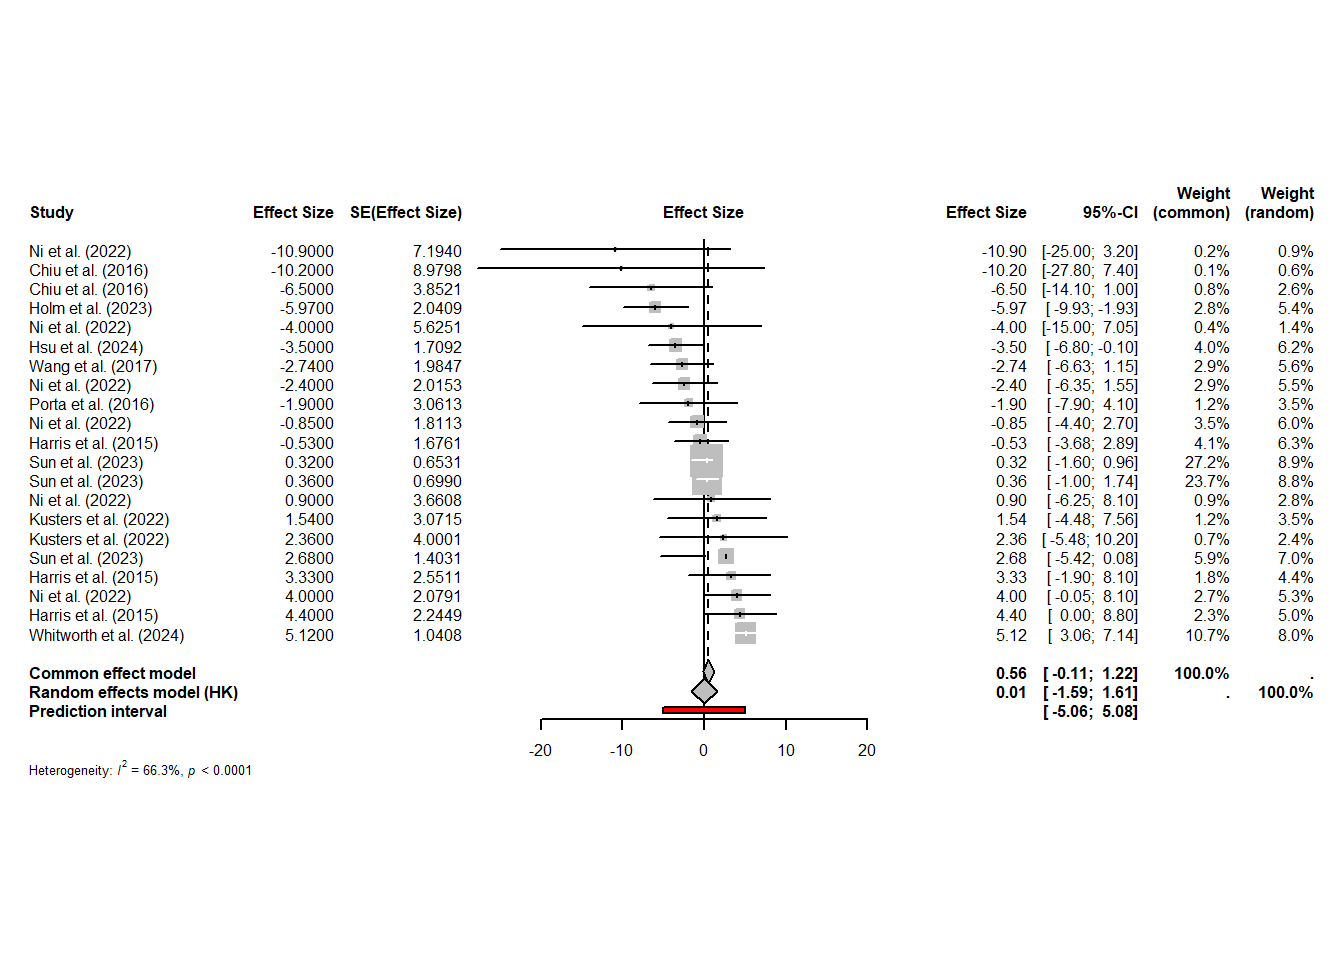
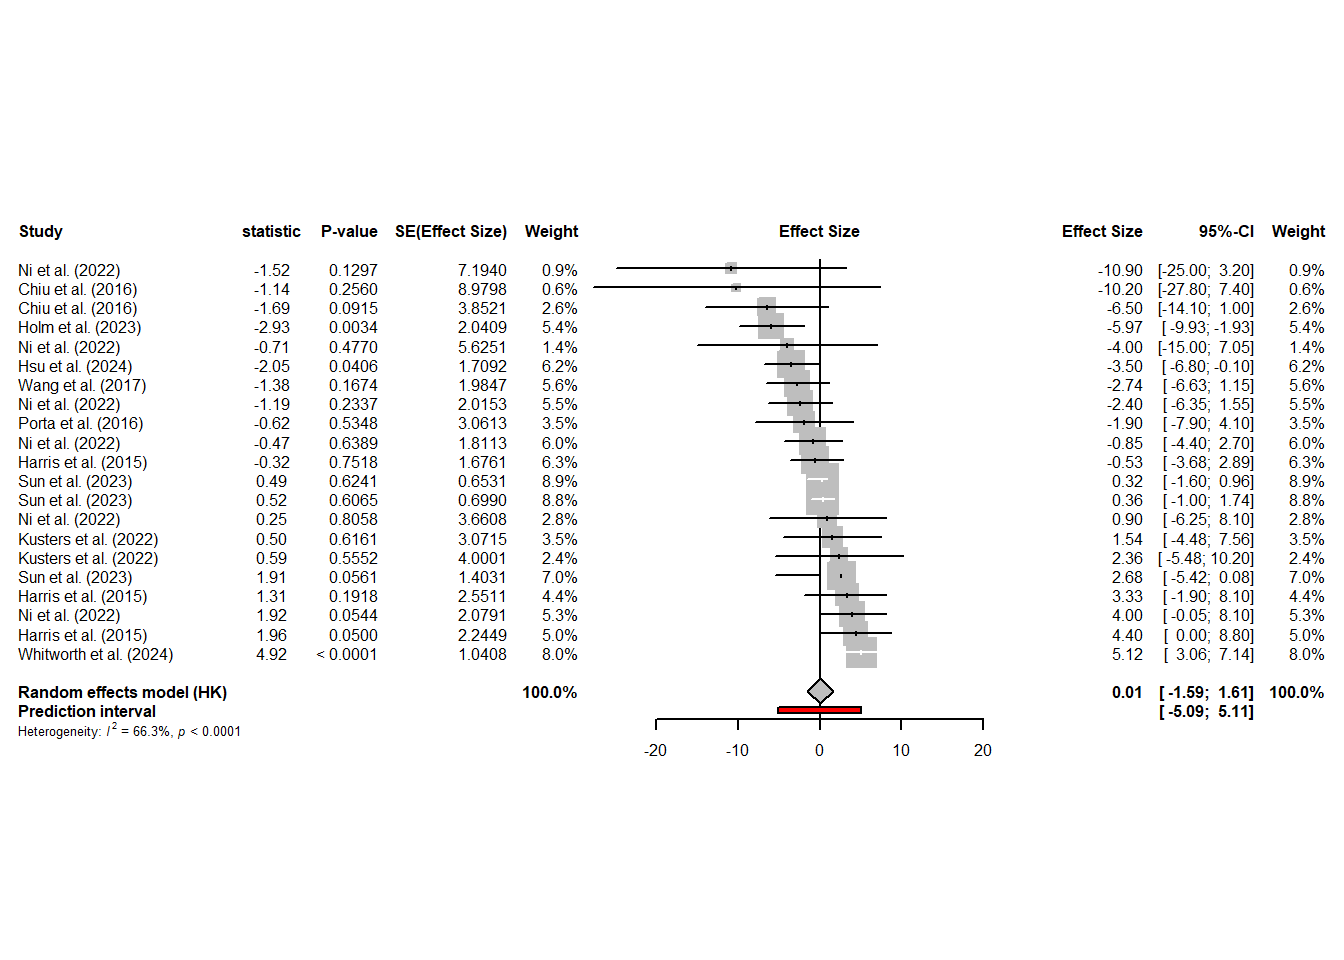
more justification text on model build

diff --git a/meta-analysis documentation.html b/meta-analysis documentation.html
@@ -266,7 +266,7 @@ pre > code.sourceCode > span > a:first-child::before { text-decoration: underlin
   </ul></li>
   <li><a href="#overall-meta-analysis" id="toc-overall-meta-analysis" class="nav-link" data-scroll-target="#overall-meta-analysis">Overall Meta-analysis</a>
   <ul class="collapse">
-  <li><a href="#forrest-plots" id="toc-forrest-plots" class="nav-link" data-scroll-target="#forrest-plots">Forrest Plots</a></li>
+  <li><a href="#forrest-plots---style-options" id="toc-forrest-plots---style-options" class="nav-link" data-scroll-target="#forrest-plots---style-options">Forrest Plots - Style options</a></li>
   </ul></li>
   <li><a href="#to-do" id="toc-to-do" class="nav-link" data-scroll-target="#to-do">To do</a></li>
   <li><a href="#useful-links" id="toc-useful-links" class="nav-link" data-scroll-target="#useful-links">Useful links</a></li>
@@ -334,16 +334,49 @@ pre > code.sourceCode > span > a:first-child::before { text-decoration: underlin
 <p>The random-effects model assumes there is not only one true effect size but a distribution of true effect sizes, therefore the model estimates the mean of the distribution of true effects. This model does, however, give more attention to small studies when calculating the pooled effect than the fixed-effects model.</p>
 <section id="estimators-of-the-between-study-heterogeneity" class="level3">
 <h3 class="anchored" data-anchor-id="estimators-of-the-between-study-heterogeneity">Estimators of the Between-Study Heterogeneity</h3>
+<p>The I2 statistic (J. P. Higgins and Thompson 2002) quantifies between-study heterogeneity, and is directly based on Cochran’s Q. It is defined as the percentage of variability in the effect sizes that is not caused by sampling error. An I2 value of approximately 50% indicates that about half of the variation is due to between-study heterogeneity.</p>
+<p>The “rule of thumb” for interpreting this statistic is (J. P. Higgins and Thompson 2002): I2 = 25%: low heterogeneity I2 = 50%: moderate heterogeneity I2 = 75%: substantial heterogeneity.</p>
+<p>The H2 statistic (J. P. Higgins and Thompson 2002) is also derived from Cochran’s Q, and similar to I2. When there is no between-study heterogeneity, H2 equals one (or smaller). Values greater than one indicate the presence of between-study heterogeneity. Compared to I2, it is far less common to find this statistic reported in published meta-analyses.</p>
 </section>
 </section>
 <section id="section" class="level2">
 <h2 class="anchored" data-anchor-id="section"></h2>
-<p>Due to the lack of study homogeneity a random-effects model is preferred, however for comparison, models will be run with both fixed- and random-effects.</p>
+<p>Due to the aprior assumption the studies included in this review lack study homogeneity a random-effects model is preferred however, if heterogeneity is found to be less than 50%, models will be run with fixed-effects.</p>
 </section>
 </section>
 <section id="definition-of-r-model-terms" class="level1">
 <h1>Definition of R model terms</h1>
-<p>TE = specifies the effect size variable lower = specifies variable that contains the lower limit of confidence interval upper = specifies variable that contains the upper limit of confidence interval studlab = study/article label sm = summary measure common = indicates a fixed-effects model should be run random = indicates a random-effects model should be run method.tau = defines the r2 estimator method.random.ci - controls how confidence internals should be calculated when using the random-effects model data = data table to undertake analysis with</p>
+<ul>
+<li>TE = specifies the effect size variable</li>
+<li>lower = specifies variable that contains the lower limit of confidence interval</li>
+<li>upper = specifies variable that contains the upper limit of confidence interval</li>
+<li>studlab = study/article label</li>
+<li>sm = summary measure</li>
+<li>common = indicates a fixed-effects model should be run</li>
+<li>random = indicates a random-effects model should be run</li>
+<li>method.tau = defines the r2 estimator
+<ul>
+<li>“DL”, DerSimonian-Laird estimator (DerSimonian and Laird, 1986)</li>
+</ul></li>
+<li>method.random.ci = controls how confidence internals are calculated for the random-effects model
+<ul>
+<li>“HK”, Method by Hartung and Knapp (2001a/b) based on a refined variance estimator for the treatment estimate and a quantile of a t-distribution with k-1 degrees of freedom where k corresponds to the number of studies in the meta-analysis. This method has shown improved coverage probabilities compared to the classic random effects method (default).</li>
+</ul></li>
+<li>ad.hoc.ci = ad hoc correction for the Hartung-Knapp (HK) method because in rare settings with very homogeneous treatment estimates, the Hartung-Knapp variance estimate can be arbitrarily small resulting in a very narrow confidence interval (Knapp and Hartung, 2003; Wiksten et al., 2016). An ad hoc variance correction has been proposed by utilising the variance estimate from the classic random effects model with the Hartung-Knapp method.as
+<ul>
+<li>“se”, use variance correction if HK standard error is smaller than standard error from classic random effects meta-analysis (Knapp and Hartung, 2003).</li>
+</ul></li>
+<li>method.tau.ci =
+<ul>
+<li>“J”, Jackson method recommended for DerSimonian-Laird estimator of τ2</li>
+</ul></li>
+<li>method.I2 = method to estimate the I-squared statistic
+<ul>
+<li>“Q”, based on heterogeneity statistic Q</li>
+</ul></li>
+<li>data = data table to undertake analysis with</li>
+</ul>
+<p>method.tau = “DL”, method.random.ci = “HK”, method.predict = “HK”, method.tau.ci = “J”, #Jackson method recommended for DerSimonian-Laird #estimator of τ2 method.I2 = “Q”, method.bias = “Egger”,</p>
 </section>
 <section id="packages-and-libraries" class="level1 unlisted hidden">
 <h1 class="unlisted hidden">Packages and Libraries</h1>
@@ -1329,18 +1362,24 @@ Supply arguments directly to `.fns` through an anonymous function instead.
 <span id="cb6-4"><a href="#cb6-4" aria-hidden="true" tabindex="-1"></a>m.pm_overall<span class="ot">=</span>(<span class="fu">metagen</span>(<span class="at">TE =</span> standardised_effect_size, <span class="at">lower=</span>standardised_ci_lower,</span>
 <span id="cb6-5"><a href="#cb6-5" aria-hidden="true" tabindex="-1"></a>               <span class="at">upper=</span>standardised_ci_upper,</span>
 <span id="cb6-6"><a href="#cb6-6" aria-hidden="true" tabindex="-1"></a>               <span class="at">studlab =</span> study,</span>
-<span id="cb6-7"><a href="#cb6-7" aria-hidden="true" tabindex="-1"></a>               <span class="at">sm =</span> <span class="st">"Effect Size"</span>,</span>
-<span id="cb6-8"><a href="#cb6-8" aria-hidden="true" tabindex="-1"></a>               <span class="at">common =</span> <span class="cn">TRUE</span>,</span>
-<span id="cb6-9"><a href="#cb6-9" aria-hidden="true" tabindex="-1"></a>               <span class="at">random =</span> <span class="cn">TRUE</span>,</span>
-<span id="cb6-10"><a href="#cb6-10" aria-hidden="true" tabindex="-1"></a>               <span class="at">method.tau =</span> <span class="st">"DL"</span>,</span>
-<span id="cb6-11"><a href="#cb6-11" aria-hidden="true" tabindex="-1"></a>               <span class="at">method.random.ci =</span> <span class="st">"HK"</span>,</span>
-<span id="cb6-12"><a href="#cb6-12" aria-hidden="true" tabindex="-1"></a>               <span class="at">data =</span> standardised_ppm_data))</span></code><button title="Copy to Clipboard" class="code-copy-button"><i class="bi"></i></button></pre></div>
+<span id="cb6-7"><a href="#cb6-7" aria-hidden="true" tabindex="-1"></a>               <span class="co">#prediction = exposure_level,</span></span>
+<span id="cb6-8"><a href="#cb6-8" aria-hidden="true" tabindex="-1"></a>               <span class="at">sm =</span> <span class="st">"Effect Size"</span>,</span>
+<span id="cb6-9"><a href="#cb6-9" aria-hidden="true" tabindex="-1"></a>               <span class="at">common =</span> <span class="cn">FALSE</span>,</span>
+<span id="cb6-10"><a href="#cb6-10" aria-hidden="true" tabindex="-1"></a>               <span class="at">random =</span> <span class="cn">TRUE</span>,</span>
+<span id="cb6-11"><a href="#cb6-11" aria-hidden="true" tabindex="-1"></a>               <span class="at">method.tau =</span> <span class="st">"DL"</span>,</span>
+<span id="cb6-12"><a href="#cb6-12" aria-hidden="true" tabindex="-1"></a>               <span class="at">method.random.ci =</span> <span class="st">"HK"</span>,</span>
+<span id="cb6-13"><a href="#cb6-13" aria-hidden="true" tabindex="-1"></a>               <span class="at">method.predict =</span> <span class="st">"HK"</span>,</span>
+<span id="cb6-14"><a href="#cb6-14" aria-hidden="true" tabindex="-1"></a>               <span class="at">method.tau.ci =</span> <span class="st">"J"</span>, <span class="co">#Jackson method recommended for DerSimonian-Laird </span></span>
+<span id="cb6-15"><a href="#cb6-15" aria-hidden="true" tabindex="-1"></a>                                    <span class="co">#estimator of τ2</span></span>
+<span id="cb6-16"><a href="#cb6-16" aria-hidden="true" tabindex="-1"></a>               <span class="at">method.I2 =</span> <span class="st">"Q"</span>,</span>
+<span id="cb6-17"><a href="#cb6-17" aria-hidden="true" tabindex="-1"></a>               <span class="at">method.bias =</span> <span class="st">"Egger"</span>,</span>
+<span id="cb6-18"><a href="#cb6-18" aria-hidden="true" tabindex="-1"></a>               <span class="at">data =</span> standardised_ppm_data))</span></code><button title="Copy to Clipboard" class="code-copy-button"><i class="bi"></i></button></pre></div>
 </div>
 </section>
-<section id="forrest-plots" class="level2 tabset">
-<h2 class="tabset anchored" data-anchor-id="forrest-plots">Forrest Plots</h2>
+<section id="forrest-plots---style-options" class="level2 tabset">
+<h2 class="tabset anchored" data-anchor-id="forrest-plots---style-options">Forrest Plots - Style options</h2>
 <div class="tabset-margin-container"></div><div class="panel-tabset">
-<ul class="nav nav-tabs" role="tablist"><li class="nav-item" role="presentation"><a class="nav-link active" id="tabset-1-1-tab" data-bs-toggle="tab" data-bs-target="#tabset-1-1" role="tab" aria-controls="tabset-1-1" aria-selected="true" href="">PM - Overall</a></li><li class="nav-item" role="presentation"><a class="nav-link" id="tabset-1-2-tab" data-bs-toggle="tab" data-bs-target="#tabset-1-2" role="tab" aria-controls="tabset-1-2" aria-selected="false" href="">NO2 - Overall</a></li></ul>
+<ul class="nav nav-tabs" role="tablist"><li class="nav-item" role="presentation"><a class="nav-link active" id="tabset-1-1-tab" data-bs-toggle="tab" data-bs-target="#tabset-1-1" role="tab" aria-controls="tabset-1-1" aria-selected="true" href="">Standard (PM - Overall, random &amp; mixed)</a></li><li class="nav-item" role="presentation"><a class="nav-link" id="tabset-1-2-tab" data-bs-toggle="tab" data-bs-target="#tabset-1-2" role="tab" aria-controls="tabset-1-2" aria-selected="false" href="">JAMA (PM - Overall, random &amp; mixed)</a></li><li class="nav-item" role="presentation"><a class="nav-link" id="tabset-1-3-tab" data-bs-toggle="tab" data-bs-target="#tabset-1-3" role="tab" aria-controls="tabset-1-3" aria-selected="false" href="">BMJ (PM - Overall, random &amp; mixed)</a></li><li class="nav-item" role="presentation"><a class="nav-link" id="tabset-1-4-tab" data-bs-toggle="tab" data-bs-target="#tabset-1-4" role="tab" aria-controls="tabset-1-4" aria-selected="false" href="">Cochrane’s Review Manager 5 (PM - Overall, random &amp; mixed)</a></li><li class="nav-item" role="presentation"><a class="nav-link" id="tabset-1-5-tab" data-bs-toggle="tab" data-bs-target="#tabset-1-5" role="tab" aria-controls="tabset-1-5" aria-selected="false" href="">NO2 - Overall</a></li></ul>
 <div class="tab-content">
 <div id="tabset-1-1" class="tab-pane active" role="tabpanel" aria-labelledby="tabset-1-1-tab">
 <div class="cell">
@@ -1348,7 +1387,7 @@ Supply arguments directly to `.fns` through an anonymous function instead.
 <span id="cb7-2"><a href="#cb7-2" aria-hidden="true" tabindex="-1"></a>       <span class="at">sortvar =</span> TE,</span>
 <span id="cb7-3"><a href="#cb7-3" aria-hidden="true" tabindex="-1"></a>       <span class="at">prediction =</span> <span class="cn">TRUE</span>,</span>
 <span id="cb7-4"><a href="#cb7-4" aria-hidden="true" tabindex="-1"></a>       <span class="at">print.tau2 =</span> <span class="cn">FALSE</span>,</span>
-<span id="cb7-5"><a href="#cb7-5" aria-hidden="true" tabindex="-1"></a>       <span class="at">lefttabs =</span> <span class="fu">c</span>(<span class="st">"Author"</span>),</span>
+<span id="cb7-5"><a href="#cb7-5" aria-hidden="true" tabindex="-1"></a>       <span class="at">leftcols =</span> <span class="fu">c</span>(<span class="st">"studlab"</span>, <span class="st">"statistic"</span>, <span class="st">"pval"</span>, <span class="st">"seTE"</span>, <span class="st">"w.random"</span>),</span>
 <span id="cb7-6"><a href="#cb7-6" aria-hidden="true" tabindex="-1"></a>       <span class="at">fontsize =</span> <span class="dv">6</span>,</span>
 <span id="cb7-7"><a href="#cb7-7" aria-hidden="true" tabindex="-1"></a>       <span class="at">spacing =</span> <span class="fl">0.5</span>)</span></code><button title="Copy to Clipboard" class="code-copy-button"><i class="bi"></i></button></pre></div>
 <div class="cell-output-display">
@@ -1358,9 +1397,76 @@ Supply arguments directly to `.fns` through an anonymous function instead.
 </figure>
 </div>
 </div>
+<div class="sourceCode cell-code" id="cb8"><pre class="sourceCode r code-with-copy"><code class="sourceCode r"><span id="cb8-1"><a href="#cb8-1" aria-hidden="true" tabindex="-1"></a>leftcols <span class="ot">=</span><span class="fu">c</span>(<span class="st">"studlab"</span>, <span class="st">"Exposure Period"</span>, <span class="st">"Sample Size"</span>, <span class="st">"I2"</span>, <span class="st">"Q"</span>, <span class="st">"pval.Q"</span>, <span class="st">"tau2"</span> )</span>
+<span id="cb8-2"><a href="#cb8-2" aria-hidden="true" tabindex="-1"></a>leftlabs <span class="ot">=</span><span class="fu">c</span>(<span class="st">"Study"</span>, <span class="st">"Exposure Period"</span>, <span class="st">"Sample Size"</span>, <span class="st">"I2"</span>, <span class="st">"Q"</span>, <span class="st">"P"</span>, <span class="st">"Tau2"</span> )</span></code><button title="Copy to Clipboard" class="code-copy-button"><i class="bi"></i></button></pre></div>
 </div>
 </div>
 <div id="tabset-1-2" class="tab-pane" role="tabpanel" aria-labelledby="tabset-1-2-tab">
+<div class="cell">
+<div class="sourceCode cell-code" id="cb9"><pre class="sourceCode r code-with-copy"><code class="sourceCode r"><span id="cb9-1"><a href="#cb9-1" aria-hidden="true" tabindex="-1"></a>    <span class="fu">forest</span>(m.pm_overall,</span>
+<span id="cb9-2"><a href="#cb9-2" aria-hidden="true" tabindex="-1"></a>       <span class="at">layout =</span> <span class="st">"JAMA"</span>,</span>
+<span id="cb9-3"><a href="#cb9-3" aria-hidden="true" tabindex="-1"></a>       <span class="at">sortvar =</span> TE,</span>
+<span id="cb9-4"><a href="#cb9-4" aria-hidden="true" tabindex="-1"></a>       <span class="at">prediction =</span> <span class="cn">TRUE</span>,</span>
+<span id="cb9-5"><a href="#cb9-5" aria-hidden="true" tabindex="-1"></a>       <span class="at">print.tau2 =</span> <span class="cn">FALSE</span>,</span>
+<span id="cb9-6"><a href="#cb9-6" aria-hidden="true" tabindex="-1"></a>       <span class="at">leftcols =</span> <span class="fu">c</span>(<span class="st">"studlab"</span>, <span class="st">"TE"</span>, <span class="st">"seTE"</span>, <span class="st">"w.random"</span>),</span>
+<span id="cb9-7"><a href="#cb9-7" aria-hidden="true" tabindex="-1"></a>       <span class="at">leftlabs =</span> <span class="fu">c</span>(<span class="st">"Study"</span>, <span class="st">"g"</span>, <span class="st">"SE"</span>, <span class="st">"weight"</span>),</span>
+<span id="cb9-8"><a href="#cb9-8" aria-hidden="true" tabindex="-1"></a>       <span class="at">fontsize =</span> <span class="dv">6</span>,</span>
+<span id="cb9-9"><a href="#cb9-9" aria-hidden="true" tabindex="-1"></a>       <span class="at">spacing =</span> <span class="fl">0.5</span>)</span></code><button title="Copy to Clipboard" class="code-copy-button"><i class="bi"></i></button></pre></div>
+<div class="cell-output-display">
+<div>
+<figure class="figure">
+<p><img src="meta-analysis-documentation_files/figure-html/unnamed-chunk-8-1.png" class="img-fluid figure-img" width="672"></p>
+</figure>
+</div>
+</div>
+</div>
+</div>
+<div id="tabset-1-3" class="tab-pane" role="tabpanel" aria-labelledby="tabset-1-3-tab">
+<div class="cell">
+<div class="sourceCode cell-code" id="cb10"><pre class="sourceCode r code-with-copy"><code class="sourceCode r"><span id="cb10-1"><a href="#cb10-1" aria-hidden="true" tabindex="-1"></a>    <span class="fu">forest</span>(m.pm_overall,</span>
+<span id="cb10-2"><a href="#cb10-2" aria-hidden="true" tabindex="-1"></a>       <span class="at">layout =</span> <span class="st">"BMJ"</span>,</span>
+<span id="cb10-3"><a href="#cb10-3" aria-hidden="true" tabindex="-1"></a>       <span class="at">sortvar =</span> TE,</span>
+<span id="cb10-4"><a href="#cb10-4" aria-hidden="true" tabindex="-1"></a>       <span class="at">prediction =</span> <span class="cn">TRUE</span>,</span>
+<span id="cb10-5"><a href="#cb10-5" aria-hidden="true" tabindex="-1"></a>       <span class="at">print.tau2 =</span> <span class="cn">FALSE</span>,</span>
+<span id="cb10-6"><a href="#cb10-6" aria-hidden="true" tabindex="-1"></a>       <span class="at">leftcols =</span> <span class="fu">c</span>(<span class="st">"studlab"</span>, <span class="st">"TE"</span>, <span class="st">"seTE"</span>, <span class="st">"w.random"</span>),</span>
+<span id="cb10-7"><a href="#cb10-7" aria-hidden="true" tabindex="-1"></a>       <span class="at">leftlabs =</span> <span class="fu">c</span>(<span class="st">"Study"</span>, <span class="st">"g"</span>, <span class="st">"SE"</span>, <span class="st">"weight"</span>),</span>
+<span id="cb10-8"><a href="#cb10-8" aria-hidden="true" tabindex="-1"></a>       <span class="at">fontsize =</span> <span class="dv">6</span>,</span>
+<span id="cb10-9"><a href="#cb10-9" aria-hidden="true" tabindex="-1"></a>       <span class="at">spacing =</span> <span class="fl">0.5</span>)</span></code><button title="Copy to Clipboard" class="code-copy-button"><i class="bi"></i></button></pre></div>
+<div class="cell-output-display">
+<div>
+<figure class="figure">
+<p><img src="meta-analysis-documentation_files/figure-html/unnamed-chunk-9-1.png" class="img-fluid figure-img" width="672"></p>
+</figure>
+</div>
+</div>
+</div>
+</div>
+<div id="tabset-1-4" class="tab-pane" role="tabpanel" aria-labelledby="tabset-1-4-tab">
+<div class="cell">
+<div class="sourceCode cell-code" id="cb11"><pre class="sourceCode r code-with-copy"><code class="sourceCode r"><span id="cb11-1"><a href="#cb11-1" aria-hidden="true" tabindex="-1"></a>    <span class="fu">forest</span>(m.pm_overall,</span>
+<span id="cb11-2"><a href="#cb11-2" aria-hidden="true" tabindex="-1"></a>       <span class="at">layout =</span> <span class="st">"RevMan5"</span>,</span>
+<span id="cb11-3"><a href="#cb11-3" aria-hidden="true" tabindex="-1"></a>       <span class="at">sortvar =</span> TE,</span>
+<span id="cb11-4"><a href="#cb11-4" aria-hidden="true" tabindex="-1"></a>       <span class="at">prediction =</span> <span class="cn">TRUE</span>,</span>
+<span id="cb11-5"><a href="#cb11-5" aria-hidden="true" tabindex="-1"></a>       <span class="at">print.tau2 =</span> <span class="cn">FALSE</span>,</span>
+<span id="cb11-6"><a href="#cb11-6" aria-hidden="true" tabindex="-1"></a>       <span class="at">leftcols =</span> <span class="fu">c</span>(<span class="st">"studlab"</span>, <span class="st">"TE"</span>, <span class="st">"seTE"</span>, <span class="st">"w.random"</span>),</span>
+<span id="cb11-7"><a href="#cb11-7" aria-hidden="true" tabindex="-1"></a>       <span class="at">leftlabs =</span> <span class="fu">c</span>(<span class="st">"Study"</span>, <span class="st">"g"</span>, <span class="st">"SE"</span>, <span class="st">"weight"</span>),</span>
+<span id="cb11-8"><a href="#cb11-8" aria-hidden="true" tabindex="-1"></a>       <span class="at">fontsize =</span> <span class="dv">6</span>,</span>
+<span id="cb11-9"><a href="#cb11-9" aria-hidden="true" tabindex="-1"></a>       <span class="at">spacing =</span> <span class="fl">0.5</span>)</span></code><button title="Copy to Clipboard" class="code-copy-button"><i class="bi"></i></button></pre></div>
+<div class="cell-output cell-output-stderr">
+<pre><code>Warning in forest.meta(m.pm_overall, layout = "RevMan5", sortvar = TE,
+prediction = TRUE, : Information on between-study variance printed for RevMan5
+layout</code></pre>
+</div>
+<div class="cell-output-display">
+<div>
+<figure class="figure">
+<p><img src="meta-analysis-documentation_files/figure-html/unnamed-chunk-10-1.png" class="img-fluid figure-img" width="672"></p>
+</figure>
+</div>
+</div>
+</div>
+</div>
+<div id="tabset-1-5" class="tab-pane" role="tabpanel" aria-labelledby="tabset-1-5-tab">
 
 </div>
 </div>
